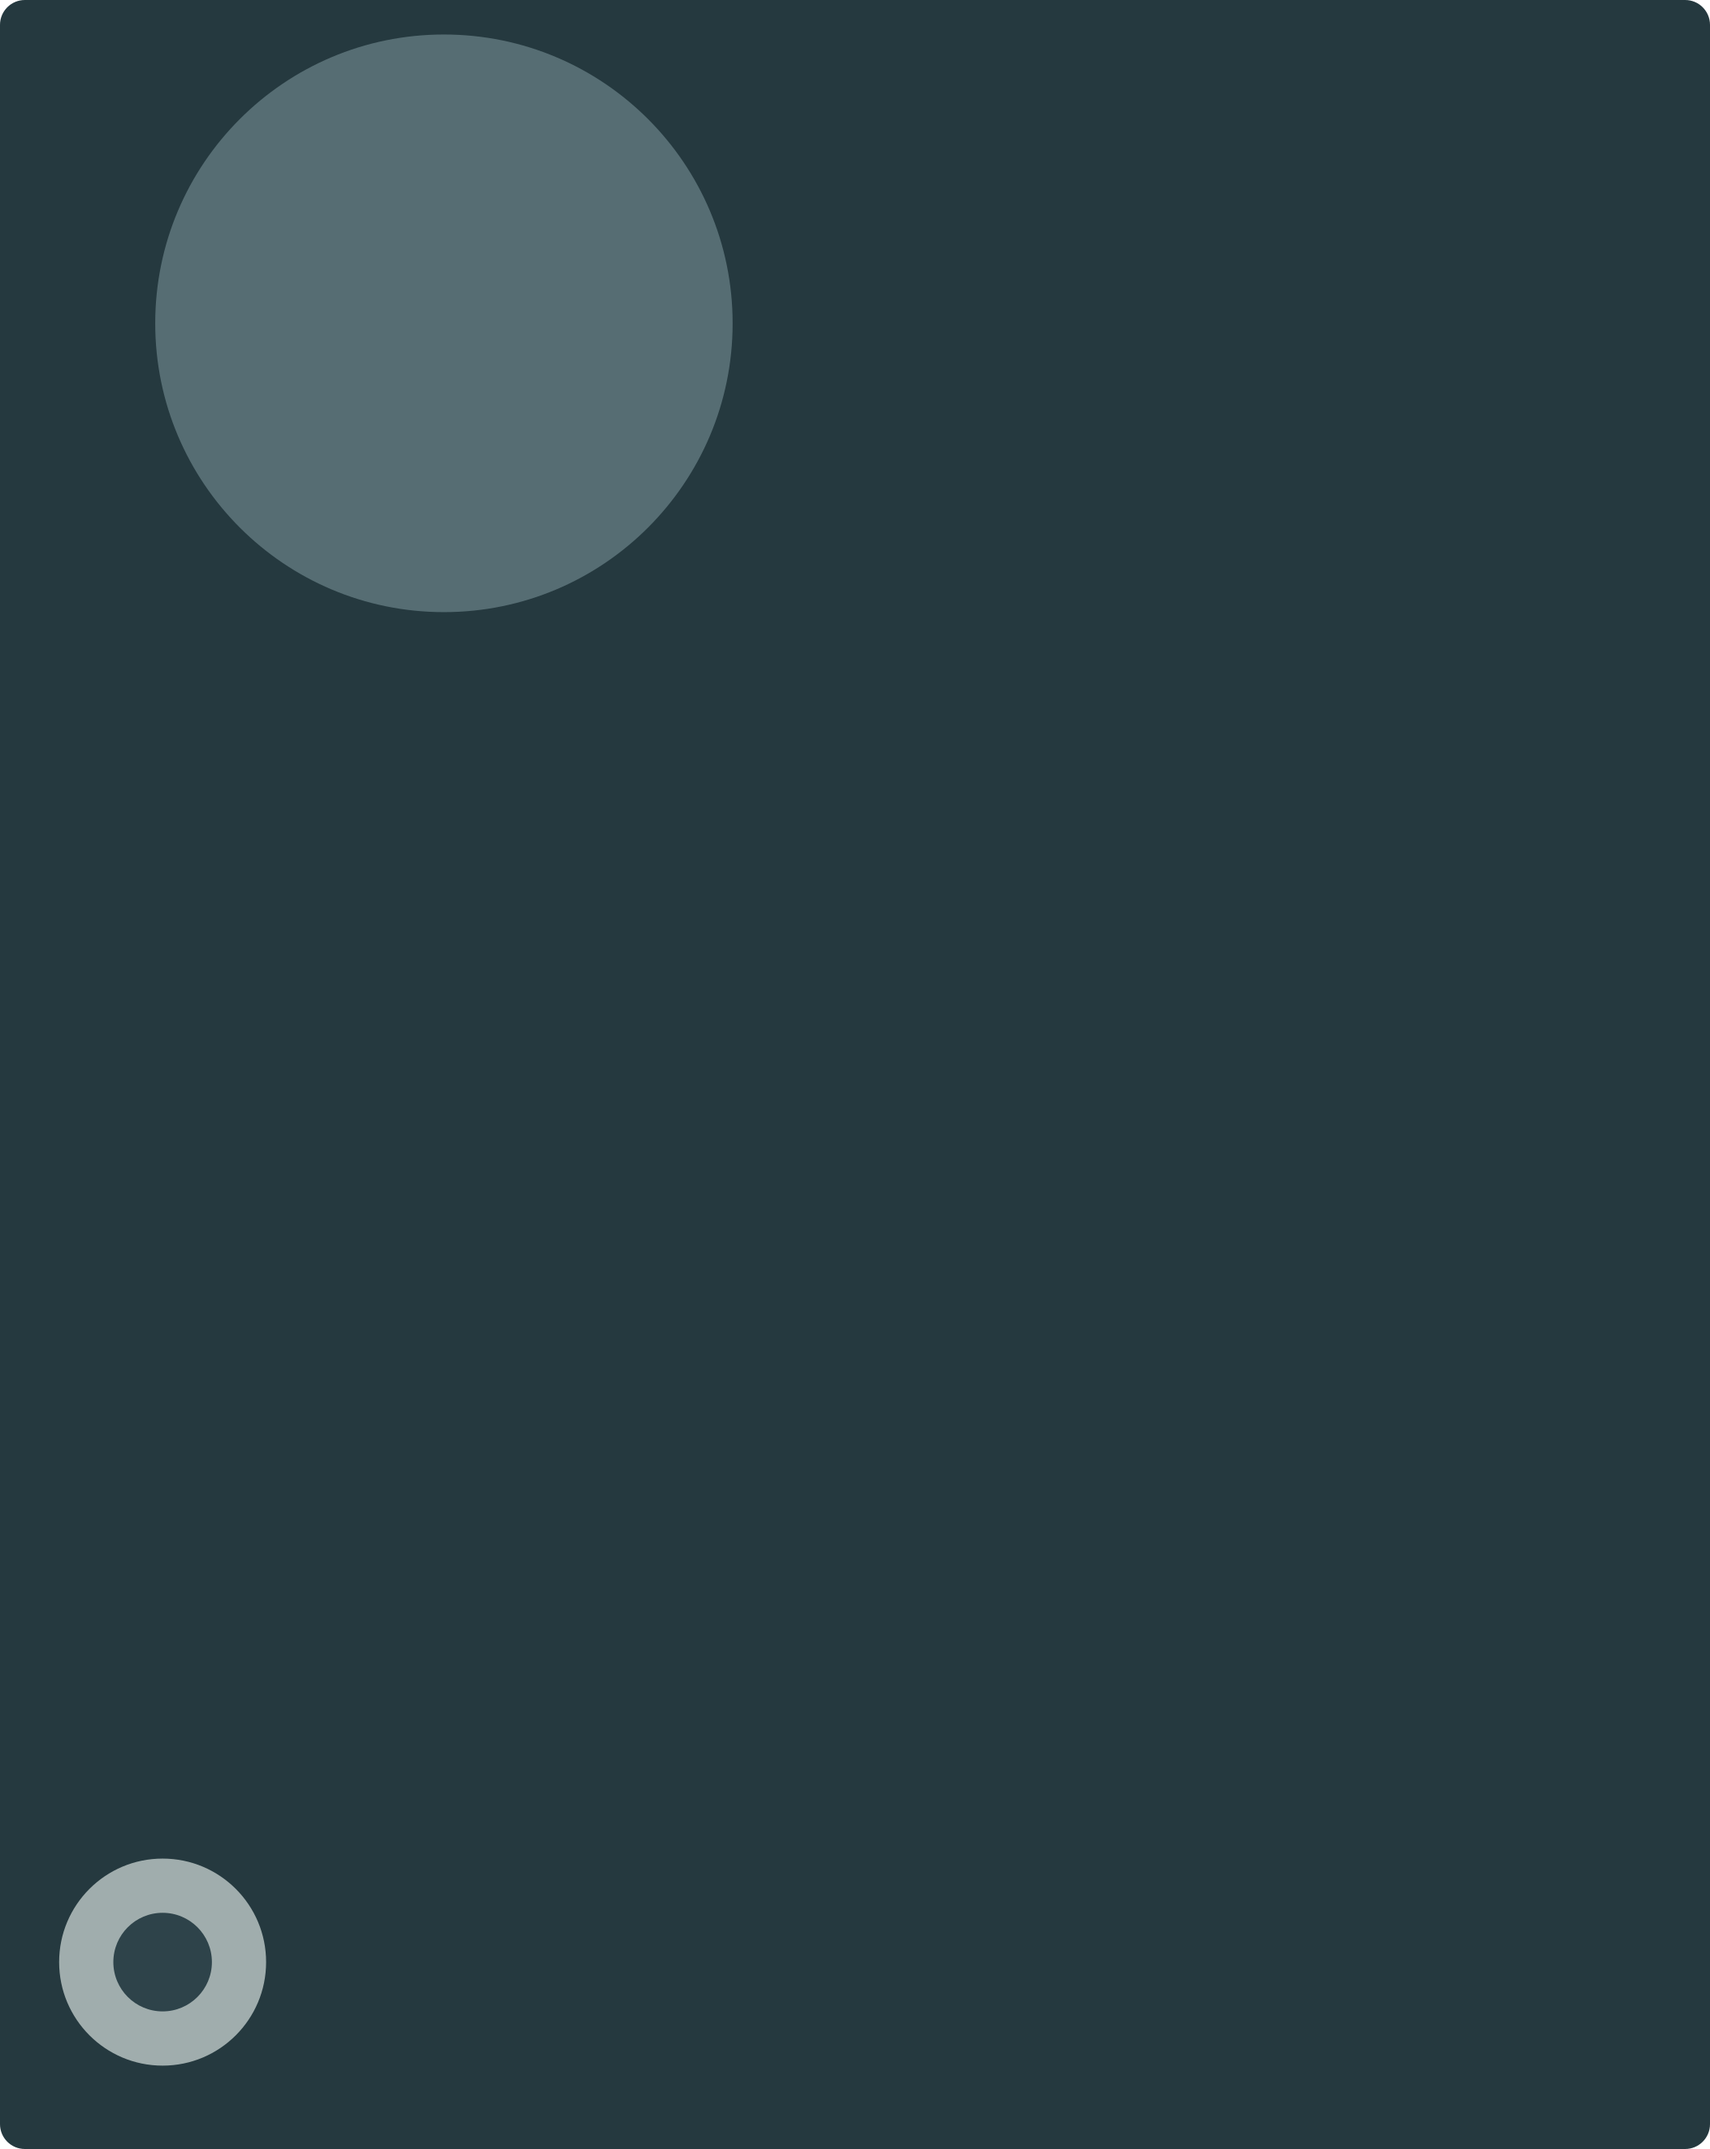
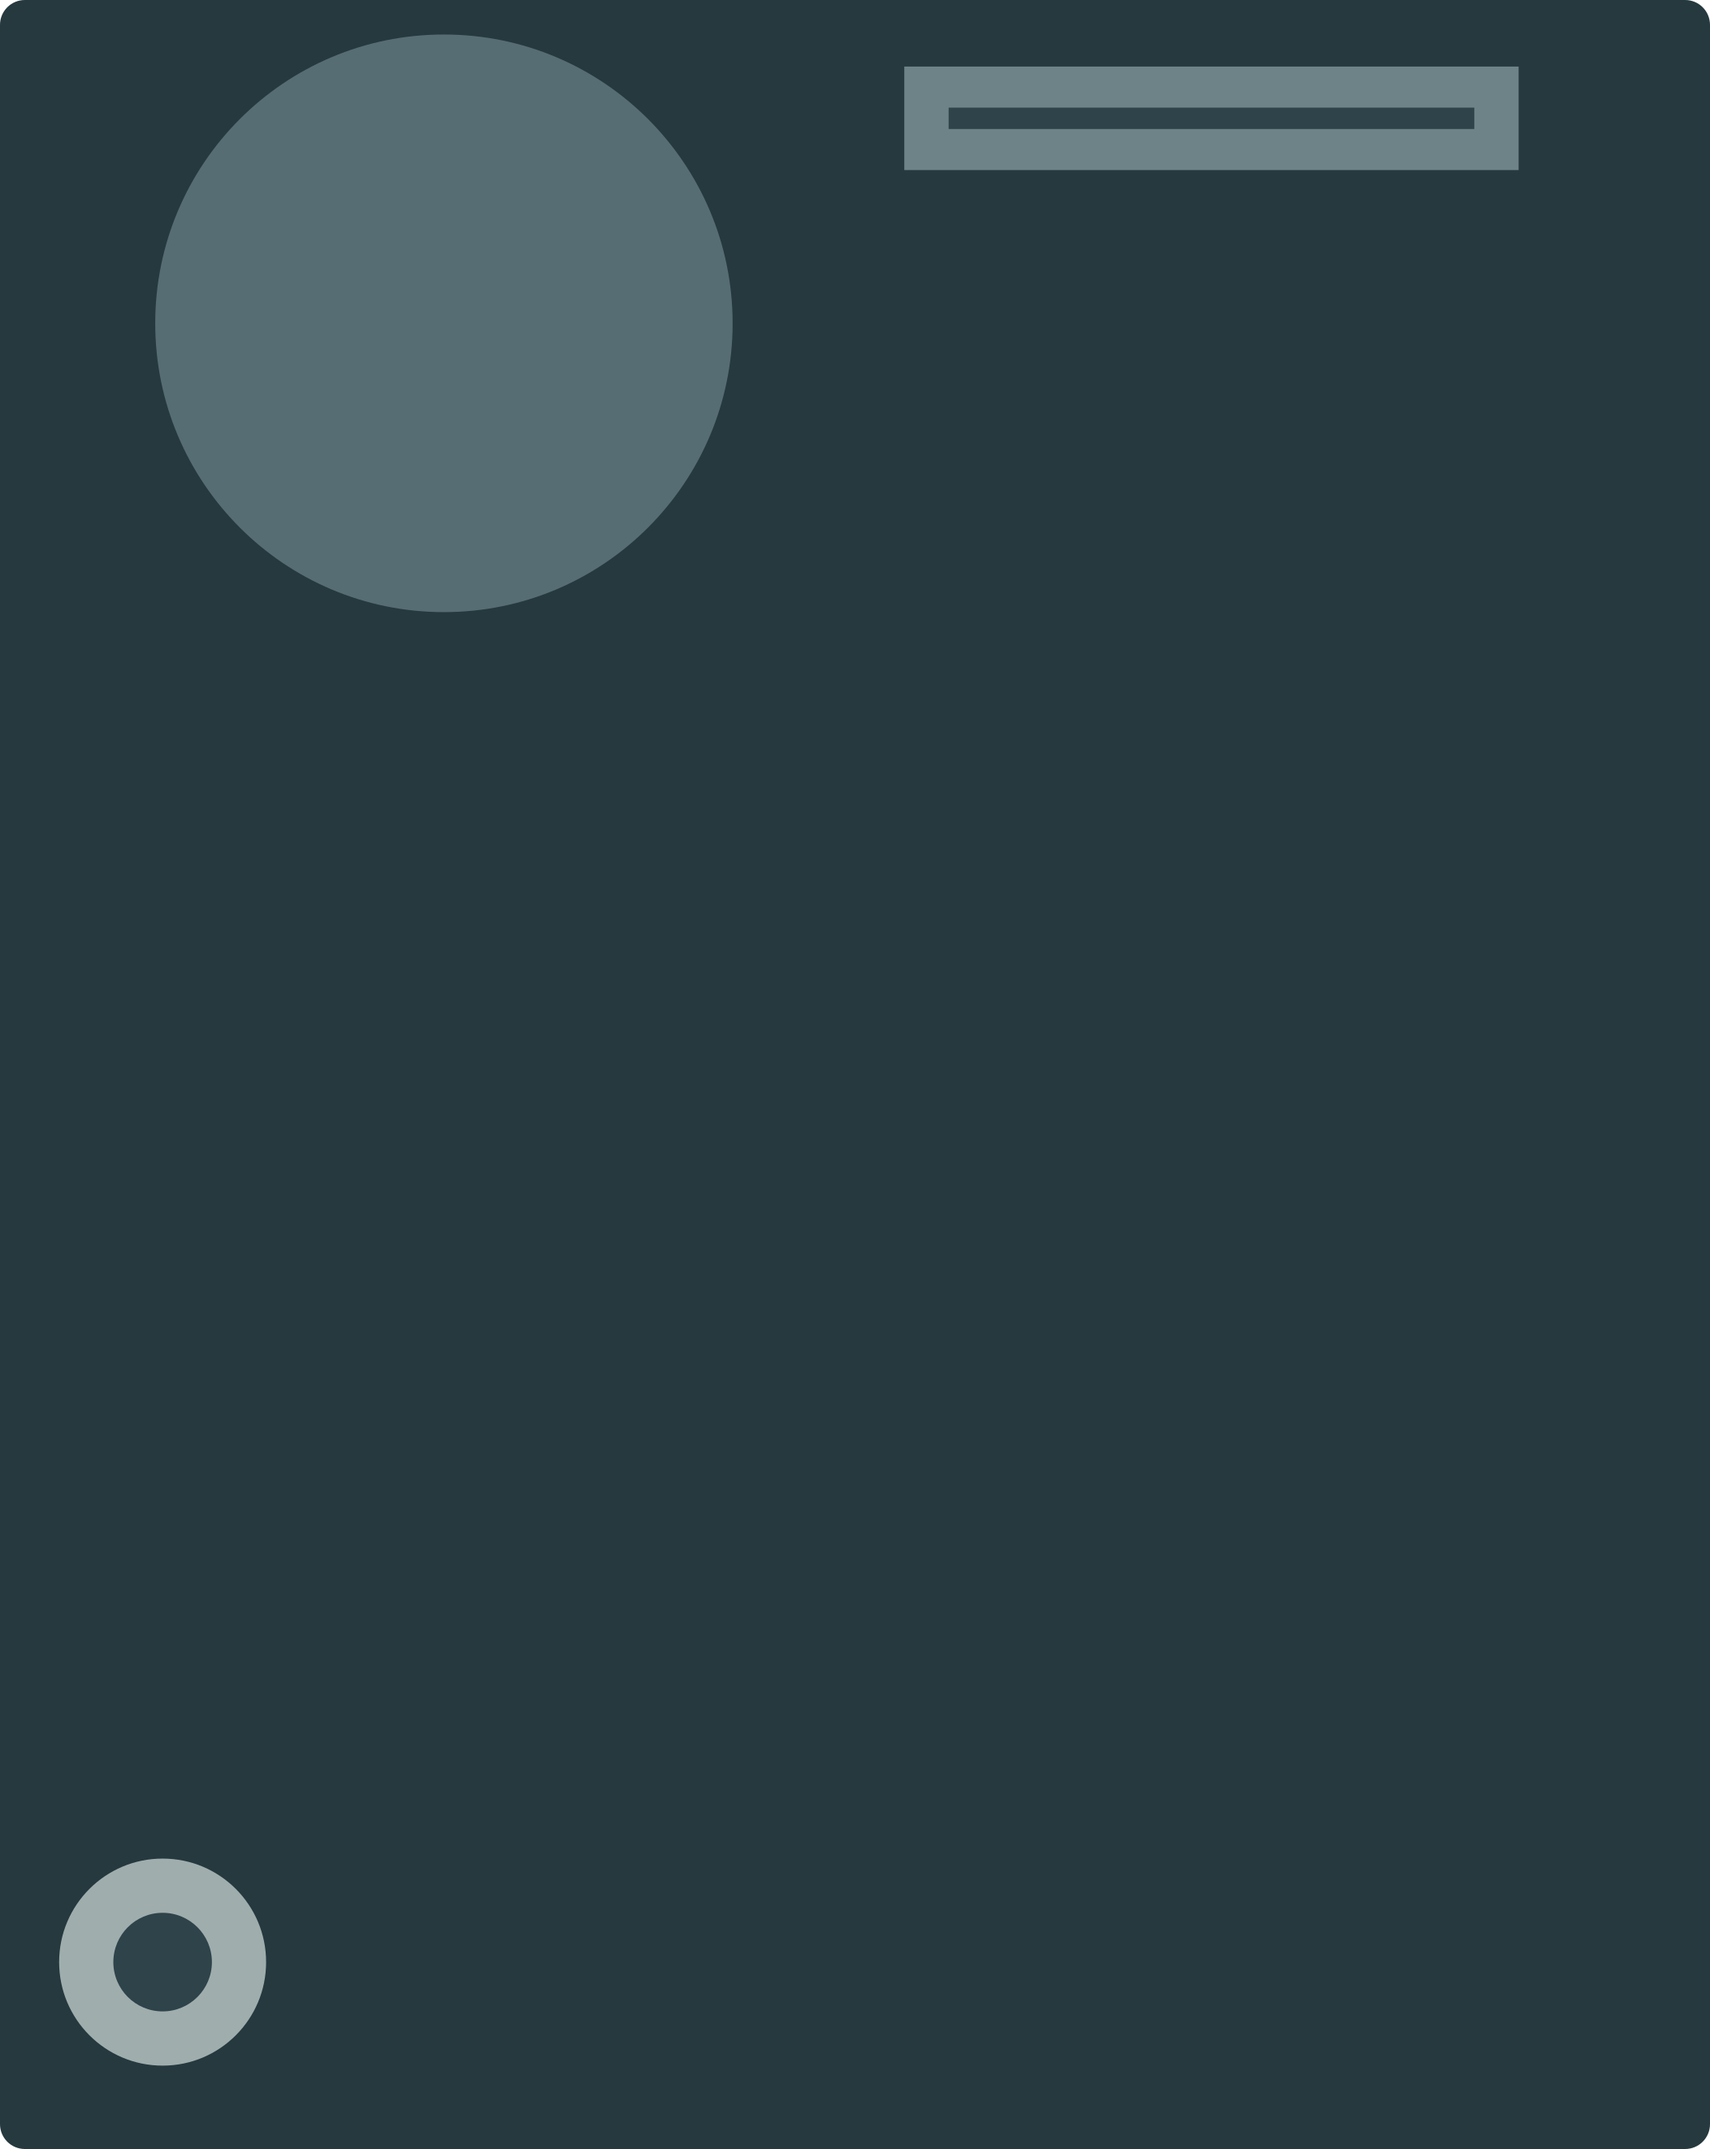
Built in full function turntable

Changed region(s): [[0.5249, 0.031, 0.8955, 0.093]]

diff --git a/src/components/Turntable.tsx b/src/components/Turntable.tsx
@@ -1,36 +1,28 @@
 // @ts-nocheck
-import React, { useState } from "react";
+import React from "react";
 import Sketch from "react-p5";
 import p5Types from "p5"; //Import this for typechecking and intellisense
 import 'p5/lib/addons/p5.sound';
 import styled from 'styled-components';
-import { visitFunctionBody } from "typescript";
 
 const StyledImg = styled.img`
-    width: 700px;  
+    width: 100%;  
     position: absolute;
-    left: 55vw;
-    top: 50px;
+    z-index: -1;
+`;
+
+const StyledImgArm = styled.img`
+    width: 85%;  
+    margin-left: 75px;
+    margin-top: 30px;
 `;
 
 const StyledTurntable = styled.div`
-
     padding: 0;
     margin: 0;
-    top: 50px;
-    left: 100px;
-    width: 500px;
-    height: 350px;
-    background-color: gray;
-    z-index: -1;
-    border-radius: px;
-`;
-
-const StyledProject = styled.div`
-    height: 350px;
-    width: 550px;
-    padding: 0;
-    margin: 50px;
+    width: 700px;
+    height: 880px;
+    position: relative;
 `;
 
 const Turntable: React.FC<ComponentProps> = () => {
@@ -39,76 +31,147 @@ const Turntable: React.FC<ComponentProps> = () => {
     let b = 0;
     let canvas;
     let mySound;
-    let button;
     let Angle;
     let AngleOld = 0;
     let AngleV = 0;
-    let slider;
-    let pizza;
+    let record;
     let rotation = 0;
+    let tonearm;
+    let toneAngle = 0;
+    let sliderKnob;
+    let position = 470;
+    let bx;
+    let by;
+    let overBox = false;
+    let locked = false;
+    let xOffset = 0.0;
+    let boxWidth = 30;
+    let boxHeight = 50;
+    let range = 100;
+
+
 
 
     const preload = (p5: p5Types, canvasParent: Element) => {
         p5.soundFormats('mp3', 'ogg');
 		mySound = p5.loadSound('https://freesound.org/data/previews/612/612610_5674468-lq');
+        record = p5.loadImage(require('../assets/images/turntable.png'));
+        tonearm = p5.loadImage(require('../assets/images/tonearm.png'));
+        sliderKnob = p5.loadImage(require('../assets/images/slider.png'));
     }
 
     const setup = (p5: p5Types, canvasParentRef: Element) => {
-		canvas = p5.createCanvas(500, 350).parent('canvasParent');
+		canvas = p5.createCanvas(700, 880, 'relative').parent('canvasParent');
         
         mySound.loop();
         p5.angleMode(p5.DEGREES);
 
-        pizza = p5.loadImage(require('../assets/images/turntable.webp'));
-
-        button = p5.createButton('pause/play');
-        button.parent("canvasParent");
-        button.position(110, 370, 'static');
-        button.mousePressed(pause);
-
-        slider = p5.createSlider(0.5, 1.5, 1, 0.05);
-        slider.parent("canvasParent");
-        slider.position(450, 350, 'static');
-        
-        slider.style('width', '80px');
-
-
         p5.rectMode(p5.CENTER)
         p5.frameRate(120)
+
+        bx = 480;
+        by = 23;
 	};
 
 	const draw = (p5: p5Types) => {
         p5.clear()
+        p5.push();
+        range = p5.constrain(bx, 380, 580)
+        let val = range/480;
         
-        let val = slider.value();
-        
-        let d = p5.dist(p5.mouseX, p5.mouseY, 250, 175);
+        let d = p5.dist(p5.mouseX, p5.mouseY, 350, 440);
 
-        if (d < 200) {
+        if (d < 650/2) {
             b = p5.atan2(p5.mouseY - p5.height / 2, p5.mouseX - p5.width / 2);
-        } else if (rotation == 1) {
+            p5.cursor('grab');
+        } else if (rotation === 1) {
             a += 3;
+            p5.cursor('arrow');
+        } else {
+            p5.cursor('arrow');
         }
     
-
         Angle = a + b;
-
         AngleV = (Angle - AngleOld)/(1/60)
-        p5.translate(p5.width / 2, p5.height / 2)
-        p5.rotate(((a * val)+ b));
 
-        p5.image(pizza, -150, -150, 300, 300);
-        p5.rectMode(p5.CENTER)
+        
+        p5.translate(p5.width / 2, 500)
+        p5.rotate(((a * val)+ b));
+        p5.image(record, -325, -325, 650, 650);
+        p5.pop();
+        
         let speed = (AngleV/180)*val;
         speed = p5.constrain(speed, -5, 5);
         mySound.rate(speed);
 
         AngleOld = Angle;
+
+        p5.push();
+        if (rotation === 1) {
+            if (toneAngle < 20) {
+                toneAngle += 2;
+            } 
+            
+        } else {
+            if (toneAngle > 0) {
+                toneAngle -= 2;
+            } 
+        }
+        p5.translate(170, 120)
+        p5.rotate(toneAngle);
+        p5.image(tonearm, -95, -95, 595, 190)
+        
+        p5.pop();
+        
+        p5.push();
+
+        if (
+            p5.mouseX > bx - boxWidth &&
+            p5.mouseX < bx + boxWidth &&
+            p5.mouseY > by - boxHeight &&
+            p5.mouseY < by + boxHeight
+          ) {
+            overBox = true;
+          } else {
+            overBox = false;
+          }
+
+        
+        p5.translate(range, 23);
+        
+        p5.image(sliderKnob,0,0,30,50);
+        p5.pop();
+
+        p5.push();
+            p5.noStroke();
+            p5.fill(160, 173, 173);
+            p5.rect(70, 810, 100, 100, 5)
+          
+        p5.pop();
 	};
 
-    function mousePressed() {
-
-    }
+    function mousePressed(p5: p5Types) {
+        if (overBox) {
+          locked = true;
+        } else {
+          locked = false;
+        }
+        xOffset = p5.mouseX - bx;
+        let f = p5.dist(p5.mouseX, p5.mouseY, 75, 805);
+        if (f < 50) {
+            pause();
+        }
+      }
+      
+      function mouseDragged(p5: p5Types) {
+        if (locked) {
+          bx = p5.mouseX - xOffset;
+        }
+      }
+      
+      function mouseReleased() {
+        locked = false;
+      }
 
     function pause() {
         if (mySound.isPlaying()) {
@@ -122,17 +185,17 @@ const Turntable: React.FC<ComponentProps> = () => {
     }
 
 	return (
-        <StyledProject >
+        <>
             <StyledTurntable id="canvasParent">
 
-                <Sketch preload={preload} setup={setup} draw={draw} mousePressed={mousePressed}/>
+                <Sketch preload={preload} setup={setup} draw={draw} mousePressed={mousePressed} mouseDragged={mouseDragged} mouseReleased={mouseReleased}/>
+                <StyledImg src={require('../assets/images/body.webp')}/>
+                {/* <StyledImgArm src={require('../assets/images/tonearm.webp')}/> */}
                 
-            
+
             </StyledTurntable>
-            <StyledImg src={require('../assets/images/body.webp')}/>
-            <StyledImg src={require('../assets/images/tonearm.webp')}/>
-            <StyledImg src={require('../assets/images/turntable.webp')}/>
-        </StyledProject>
+
+        </>
     );
 };
 

diff --git a/src/components/sections/About.tsx b/src/components/sections/About.tsx
@@ -44,14 +44,14 @@ const StyledAboutSection = styled.section`
 const StyledImg = styled.img`
   position: absolute;
   width: 700px;
-  left: 75vw;
+  left: 1500px;
   transform: rotate(20deg);
 `;
 
 const StyledImg2 = styled.img`
   position: absolute;
   width: 700px;
-  left: -10vw;
+  left: -200px;
   transform: rotate(20deg);
 `;
 
@@ -86,9 +86,9 @@ const About = (props: Props) => {
                           <div style={{ transitionDelay: `${i + 1}00ms` }}>{item}</div>
                       </CSSTransition>
                     ))}
-                    <CSSTransition key={4} classNames="fadein" timeout={2000}>
-                      <img width='300' src={require('../../assets/images/Profile.JPG')} alt='Profile'/>
-                    </CSSTransition>
+                    {/* <CSSTransition key={4} classNames="fadein" timeout={2000}>
+                      <img width='300' src={require('../../assets/images/Profile.JPG')} alt='Profile'/> 
+                    </CSSTransition> */}
             </TransitionGroup>
         </div>
         <StyledImg src={require('../../assets/images/headphones.webp')}/>

diff --git a/src/components/sections/Home.tsx b/src/components/sections/Home.tsx
@@ -1,23 +1,17 @@
 import styled from 'styled-components';
 import { useState, useEffect } from 'react';
 import { CSSTransition, TransitionGroup } from 'react-transition-group';
-import Turntable from '../Turntable';
 
 const StyledHomeSection = styled.section`
-  /* -webkit-transform: translateY(-50%);
-  transform: translateY(-50%); */
-  /* padding: 100px 100px;
-  position: absolute;
-  text-align: left;
-  top: 50%;
-  width: 60%; */
-  //position: relative;
 
-  min-width: 300px;
+  min-width: 400px;
+  width: 600px;
+  min-height: 100px;
+
   h1 {
     margin: 0 0 30px 4px;
     font-size: 90px;
-    color: var(--heading-color)
+    color: var(--heading-color);
   }
 
   .big-heading {
@@ -27,15 +21,12 @@ const StyledHomeSection = styled.section`
 
 `;
 
-const StyledProject = styled.div`
-
-`;
 
 export const Home = () => {
   const [ isMounted, setIsMounted ] = useState(false);
 
   useEffect(() => {
-    const timeout = setTimeout(() =>  setIsMounted(true), 2000);
+    const timeout = setTimeout(() =>  setIsMounted(true), 1000);
     return () => clearTimeout(timeout);
   }, [])
   

diff --git a/src/pages/MainPage.tsx b/src/pages/MainPage.tsx
@@ -9,17 +9,17 @@ const StyledMainPage = styled.main`
 `;
 
 const StyledFlexWrapper = styled.div`
-    padding-top: 15%;
     display: flex;
     flex-direction: row;
     align-items: center;
     flex-wrap: wrap;
+    justify-content: space-around;
 `;
 
 const StyledHome = styled.div`
     width: 100%;
     min-height: 100vh;
-    padding: 0 100px;
+    padding: 20px 100px;
     
     /* background: linear-gradient(#225794, #2f3e73); */
 `;
@@ -60,7 +60,7 @@ const MainPage = () => {
     return (
         <>
             <StyledMainPage>
-                <Navbar />
+                {/* <Navbar /> */}
                 <StyledHome id='Home'>
                     <StyledFlexWrapper>
                         <Home />

diff --git a/src/App.tsx b/src/App.tsx
@@ -33,6 +33,7 @@ const App: React.FC = () => {
           <Routes>
             <Route path="/" element={<MainPage />} />
             
+            <Route path="/Turntable" element={<TurntablePage />} /> 
             <Route path="/ConnectFour" element={<ConnectFourPage />} />
             <Route path="/Chatroom" element={<ChatroomPage />} />
             <Route path="/Spotify" element={<SpotifyPage />} />
